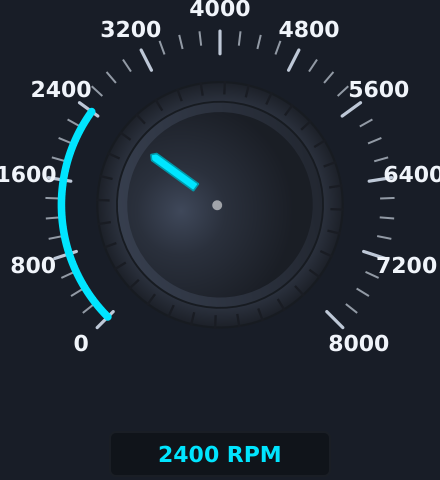
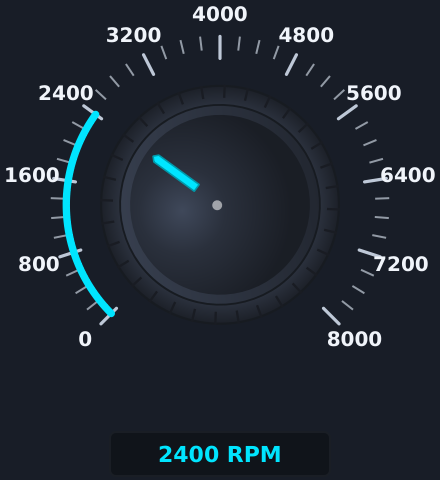
docs(gallery): knob images with the labels inside the widget (#170)

diff --git a/CHANGELOG.md b/CHANGELOG.md
@@ -43,7 +43,7 @@ and this project adheres to [Semantic Versioning](https://semver.org/spec/v2.0.0
 - **`RadialGauge`: readout font floor from 8 px to 7 pt, and what has no room is left out** (#60): the value is never drawn below 7 pt (10 px at 96 dpi; it was 8 px) and never cut. When a regular pod has no room the gauge uses a compact pod as high as the text; the labels it would cut are not drawn, the first and last ones included, since the value has precedence over the labels (#43). Without room the unit goes first, then the number; `---` and the triangle are always shown, so only a valid readout may disappear: a valid value with no room leaves the pod empty.
 - **`RadialGauge::minimumSizeHint()`** (#60): it was a fixed 90 × 90. It now depends on the widget font, the range, the precision, the major ticks, the angles, the unit and the visibility of the digital display, and `updateGeometry()` is called when they change, so a layout can make a gauge larger. It is the smallest size from which the state indicator at 7 pt stays clear of the scale and the first and last labels are drawn, never below 90 × 90 and never above `sizeHint()`. Examples with DejaVu Sans at 96 dpi (without fonts, as on the offscreen Windows CI, in brackets), old value 90 in every case: the minimum of the default gauge (0–100.0, unit `bar`, 270°) goes from 90 to 98 px (131); 0–100 without unit 90 (90); 0–8000 `RPM` 105 (138); −1000–1000 `RPM` 112 (156); 0–100000 `RPM` 129 (173); 0–100.0 `bar` at 240° 122 (172); every scale measured at 360° 90 (98).
 
-- **`IndustrialKnob`: the dial follows the labels drawn** (#170): the dial keeps its centre and gets smaller only as far as the labels selected at that radius need to stay inside the widget, down to half of the full radius. A knob with short labels looks as before; at 160 × 180 with DejaVu Sans the radius goes from 70 to 60 px on a 0–10000000 scale.
+- **`IndustrialKnob`: the dial follows the labels drawn** (#170): the dial keeps its centre and gets smaller only as far as the labels selected at that radius need to stay inside the widget, down to half of the full radius. A knob with short labels looks as before; at 160 × 180 with DejaVu Sans the radius goes from 69.8 to 59.5 px on a 0–10000000 scale. The label font follows the radius, so at 220 × 240 a knob with short labels goes from 11 to 10 px, since the top label reached the edge.
 - **`IndustrialKnob::minimumSizeHint()`** (#170): it was a fixed 80 × 90. It now depends on the widget font, the range, the precision, the major ticks, the discrete steps, the mode and the angles, and `updateGeometry()` is called when they change, so a layout can make a knob larger. It is the smallest size, in the proportions 8:9, from which the labels drawn are inside the widget and the first and last ones are drawn, never below 80 × 90 and never above `sizeHint()`. With DejaVu Sans it is still 80 × 90 for every range up to 0–10000000. With no fonts installed (every glyph drawn as a box) it grows to 84 × 95 for 0–1000000 and to 95 × 107 for 0–10000000.
 
 ### Fixed
